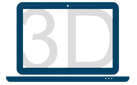
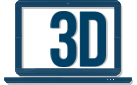
mas nueva intefaz

diff --git a/css/ehpestilos.css b/css/ehpestilos.css
@@ -71,40 +71,7 @@ padding:10px;
      box-shadow: inset 0 1px 1px rgba(0, 0, 0, 0.05);width:60%;
    
   }
-  .divHome {
-    text-align:justify;
-    min-height: 20px;
-    width:300px;
-    padding: 5px;
-    /*margin-bottom: 20px;*/
-    margin-top: 10px;
-    background-color: #f5f5f5;
-    border-bottom: 1px solid transparent;
-    border-right: 2px solid transparent;
-    border-left: 2px solid transparent;
-    border-top: 1px solid transparent;
-  /*-webkit-border-radius: 4px;
-     -moz-border-radius: 4px;
-     border-radius: 4px;*/
-     -webkit-box-shadow: inset 0 1px 1px rgba(0, 0, 0, 0.05);
-     -moz-box-shadow: inset 0 1px 1px rgba(0, 0, 0, 0.05);
-     box-shadow: inset 0 1px 1px rgba(0, 0, 0, 0.05);
-   }
-   .divHome h2{
-     font-size: 24px;
-     line-height:20px; 
-   }
-   .divHome h3{
-    font-size: 26px;
-    line-height:20px;
-  }
-
-  .divHome:hover{
-    border-bottom: 1px solid #124162;
-    border-right:2px solid #fe7902;
-    border-top: 1px solid #124162;
-    border-left:2px solid #fe7902;
-  }
+  
   .parr{
      padding-right:4px;
 
@@ -172,23 +139,23 @@ padding:10px;
 
 
 .titulo{
-  color: #b0cce9;
+  color: #134263;
   padding: 5px;
   font: 25px eras;
   margin:-32px 0px 0px 0px;
   background-color: white;
-
+line-height: 18px;
   /*border:1px solid #d2d2d2;*/
-  color:#b0cce9;
+  
   cursor:context-menu;
 }
 .titulo p{
  font-size: 25px;
 }
-.titulo p:hover{
+/*.titulo p:hover{
   color:#0d3c5e;
   font-size: 25px;
-}
+}*/
 
 .imgtophome{
   color:white;
@@ -213,7 +180,7 @@ padding:10px;
  border-top: 5px solid #134263;
  border-bottom: 5px solid #134263;
 /*margin: 0 auto;*/
-margin-right:70px;
+margin-right:60px;
 /*margin-top:25px;*/
 }
 
@@ -334,9 +301,9 @@ height:90px;
  border:1px solid black;
 }
 .iconoser img{
-  width:60px;
-  margin-left: 10%;
-  padding:10px;
+  /*width:60px;
+  margin-left: 10%;*/
+ /* padding:10px;*/
   /*border:1px solid grey;*/
   
 }
@@ -350,15 +317,7 @@ height:90px;
   
 }
 
-.arriba{
-  color:#134263;
- 
-}
 
-.abajo{
-  
-  color:#969696;
-}
 .iconofoot{
   width:30px;
 }
@@ -526,7 +485,27 @@ border:1px solid black;
 -moz-border-radius: 4px;
 border-radius: 4px;
 }
+.servicios img{
+  width: 100px;
+}
+.servicios h2{
+  text-align: center;
+}
+.servicios p{
+  text-align: justify;
+}
+.arriba{
+  color:#134263;
+  font-size: 24px;
+ 
+}
 
+
+.abajo{
+  
+  color:#969696;
+  font-size: 18px;
+}
 .ofertas{
 margin-left:0px !important;
 border:1px #134263 solid;padding:5px;
@@ -1059,7 +1038,22 @@ width:120px;
 .stockprimeracolumna{
   margin-bottom: 6px;
 }
-
+.individualstock{
+  line-height: 13px;
+  font-size: 14px;
+  text-align: right;
+  padding-right:  5px;
+  padding-top:  5px;
+}
+.preciostock img{
+  border:1px solid black;
+}
+.preciostock{
+  margin-top:5px;
+  text-align: center;
+  line-height: 12px;
+  
+}
 /********* MOVIL ESTILOS **************/
 
 @media screen and (min-width: 320px) and (max-width: 768px) {
@@ -1296,9 +1290,10 @@ td{
   
 }
 #sliderContainer {
-height: 275px;
-top:20px;
+height: 300px;
+top:0px;
 left:15px;
+margin-right:30px;
   }
 .jFlowNext {  top:80px;}
 

diff --git a/protected/views/site/index.php b/protected/views/site/index.php
@@ -91,7 +91,7 @@
 			<div class="span12 cuerofertas oferta" id="oferta2">
 							
 				<div class="span12" style="margin-bottom:-10px">
-						Mármol.<strong>222 Emperador Claro</strong>
+						Granito.<strong>222 Emperador Claro</strong>
 				</div>
 				<div class="span12">
 					<div class="span5" style="padding:5px;">
@@ -154,7 +154,7 @@
 						
 					</div>
 					<div class="span8 individualstock">	
-						<strong>Rojo Coralito</strong><br><br><br>
+						<strong>Rojo Coralito</strong><br><br>
 						<strong><span class="arriba" style="font-size:16px;" >11,00 </span><span style="font-size:10px;">€/m<sup>2</sup></span></strong>
 					</div>
 				</div>	
@@ -172,7 +172,7 @@
 				<div class="span4" style="margin-left:0px; border-right:1px dotted black;">
 					<div class="span4 preciostock">
 						<img heigth="100%" alt="Oferta Marmol Emperador Claro - proSton.es " src="<?php echo Yii::app()->request->baseUrl.Yii::app()->params['images'] ?>textura/ancha/granito/G687.jpg">
-						<strong><span class="textodiez">60x30x1'5 (pulido)</span></strong>
+						<strong><span class="textodiez">60x30x1,5 (pulido)</span></strong>
 						
 					</div>
 					<div class="span8 individualstock">	
@@ -310,7 +310,123 @@
 <div class="clearfix">&nbsp;</div>
 <div class="clearfix">&nbsp;</div>
 
-<div class=" span12  servicios" >  <!--SERVICIOS-->
+
+
+
+<div class=" span12  servicios" > 
+	<div class="titulo " style="width:10%">
+		<span style="margin-left:10px">Servicios</span><br>
+		<span style="margin-left:70px; color:#bcbcbc ; font-size:20px;">proSton</span>
+	</div>
+	<div class="clearfix">&nbsp;</div>
+
+	<div class="span2">
+		<div align="center">
+		<a href="<?php echo Yii::app()->request->baseUrl?>/index.php/site/page?view=atencionpersonalizada">	
+		<img alt="Catálogo de materiales - proSton.es"  src="<?php echo Yii::app()->request->baseUrl.Yii::app()->params['images'] ?>servicios/atencion.png" onmouseover="this.src='<?php echo Yii::app()->request->baseUrl.Yii::app()->params['images'] ?>servicios/atencion2.png';" onmouseout="this.src='<?php echo Yii::app()->request->baseUrl.Yii::app()->params['images'] ?>servicios/atencion.png';"/>
+		</a>
+		</div>
+		<div>
+			<h2><span class="arriba">Atención</span><span class="abajo"> personalizada</span></h2>
+		</div>
+		<div>
+			<p><em>Disponemos de talleres a su servicio muy cerca de usted.</em></p>
+		</div>
+	</div>
+
+	<div class="span2">
+		<div align="center">
+			<a href="<?php echo Yii::app()->request->baseUrl?>/index.php/tipo/verCaracteristicas/id/12">	
+		<img alt="Catálogo de materiales - proSton.es"  src="<?php echo Yii::app()->request->baseUrl.Yii::app()->params['images'] ?>servicios/catalogo.png" onmouseover="this.src='<?php echo Yii::app()->request->baseUrl.Yii::app()->params['images'] ?>servicios/catalogo2.png';" onmouseout="this.src='<?php echo Yii::app()->request->baseUrl.Yii::app()->params['images'] ?>servicios/catalogo.png';"/>
+
+		</a>
+		</div>
+		<div>
+			<h2><span class="arriba">Catálogo</span><span class="abajo"> de materiales</span></h2>
+		</div>
+		<div>
+			<p><em>Vendemos materiales con la mejor relación calidad-precio.</em></p>
+		</div>
+	</div>
+
+	<div class="span2">
+		<div align="center">
+		<a href="<?php echo Yii::app()->request->baseUrl?>/index.php/preciounitario/index">	
+		<img alt="Catálogo de materiales - proSton.es"  src="<?php echo Yii::app()->request->baseUrl.Yii::app()->params['images'] ?>servicios/tarifas.png" onmouseover="this.src='<?php echo Yii::app()->request->baseUrl.Yii::app()->params['images'] ?>servicios/tarifas2.png';" onmouseout="this.src='<?php echo Yii::app()->request->baseUrl.Yii::app()->params['images'] ?>servicios/tarifas.png';"/>
+		</a>
+		
+		</div>
+		<div>
+			<h2><span class="arriba">Tarifas</span><span class="abajo"> y ofertas</span></h2>
+		</div>
+		<div>
+			<p><em>Conozca y compare el precio de todas las elaboraciones.</em></p>
+		</div>
+	</div>
+
+	<div class="span2" >
+		<div align="center">
+		<a href="<?php echo Yii::app()->request->baseUrl?>/index.php/simulador/index/id/12">	
+		<img alt="Servicio Diseñador virtual - proSton.es"  src="<?php echo Yii::app()->request->baseUrl.Yii::app()->params['images'] ?>servicios/disenador.png" onmouseover="this.src='<?php echo Yii::app()->request->baseUrl.Yii::app()->params['images'] ?>servicios/disenador2.png';" onmouseout="this.src='<?php echo Yii::app()->request->baseUrl.Yii::app()->params['images'] ?>servicios/disenador.png';"/>
+		</a>
+		</div>
+		<div>
+			<h2><span class="arriba">Diseñador</span><span class="abajo"> virtual</span></h2>
+		</div>
+		<div>
+			<p><em>Conviértase en su decorador, utilice nuestros escenarios.</em></p>
+		</div>
+	</div>
+
+
+	<div class="span2">
+		<div align="center">
+			<a href="<?php echo Yii::app()->request->baseUrl?>/index.php/presupuesto">	
+				<img alt="Servicio Presuspuesto online - proSton.es"  src="<?php echo Yii::app()->request->baseUrl.Yii::app()->params['images'] ?>servicios/presupuesto.png" onmouseover="this.src='<?php echo Yii::app()->request->baseUrl.Yii::app()->params['images'] ?>servicios/presupuesto2.png';" onmouseout="this.src='<?php echo Yii::app()->request->baseUrl.Yii::app()->params['images'] ?>servicios/presupuesto.png';"/>
+			</a>
+	
+		</div>
+		<div>
+			<h2><span class="arriba">Presupuesto</span><span class="abajo"> online</span></h2>
+		</div>
+		<div>
+			<p><em>Conocerá inmediatamente el coste de sus consultas.</em></p>
+		</div>
+	</div>
+
+	
+
+	<div class="span2">
+		<div align="center">
+			<a href="<?php echo Yii::app()->request->baseUrl?>/index.php/site/page?view=transporteadomicilio">	
+			<img alt="Catálogo de materiales - proSton.es"  src="<?php echo Yii::app()->request->baseUrl.Yii::app()->params['images'] ?>servicios/transporte.png" onmouseover="this.src='<?php echo Yii::app()->request->baseUrl.Yii::app()->params['images'] ?>servicios/transporte2.png';" onmouseout="this.src='<?php echo Yii::app()->request->baseUrl.Yii::app()->params['images'] ?>servicios/transporte.png';"/>
+			</a>
+		
+		</div>
+		<div>
+			<h2><span class="arriba">Transporte</span><span class="abajo"> a domicilio</span></h2>
+		</div>
+		<div>
+			<p><em>Facilitamos el seguimiento y el control de su material.</em></p>
+		</div>
+	</div>
+
+	
+
+
+
+	
+
+</div>
+
+<div class="clearfix">&nbsp;</div>
+<div class="clearfix">&nbsp;</div>
+
+
+
+<!--SERVICIOS
+
+<div class=" span12  servicios" >  
 
 	<div class="titulo " style="width:10%">
 		<p style="margin-left:10px">Servicios</p>
@@ -359,7 +475,8 @@
 					</div>
 				</div>
 				<div class="span12 parr">
-					<p><em>Conocerá inmediatamente el coste de sus consultas.</em></p></div>
+					<p><em>Conocerá inmediatamente el coste de sus consultas.</em></p>
+					</div>
 				</div>
 
 		</a>	
@@ -382,7 +499,8 @@
 					</div>
 				</div>
 				<div class="span12 parr">
-					<p><em>Vendemos materiales con la mejor relación calidad-precio.</em></p></div>
+					<p><em>Vendemos materiales con la mejor relación calidad-precio.</em></p>
+					</div>
 				</div>
 
 		</a>	
@@ -467,7 +585,7 @@
 
 
 
-	</div><!--FIN SERVICIOS-->
+	</div>FIN SERVICIOS-->
 
 	
 								
@@ -482,7 +600,10 @@
 								-webkit-border-radius: 4px;
 								-moz-border-radius: 4px;
 								border-radius: 4px;">  
-								<div class="titulo " style="width:20%;"><p>Plataforma proSton</p></div>
+								<div class="titulo " style="width:10%">
+					<span style="margin-left:10px">Plataforma</span><br>
+		<span style="margin-left:70px; color:#bcbcbc ; font-size:20px;">proSton</span>
+	</div>
 								<div class="clearfix">&nbsp;</div>
 								
 								<div class="plat"  >  
